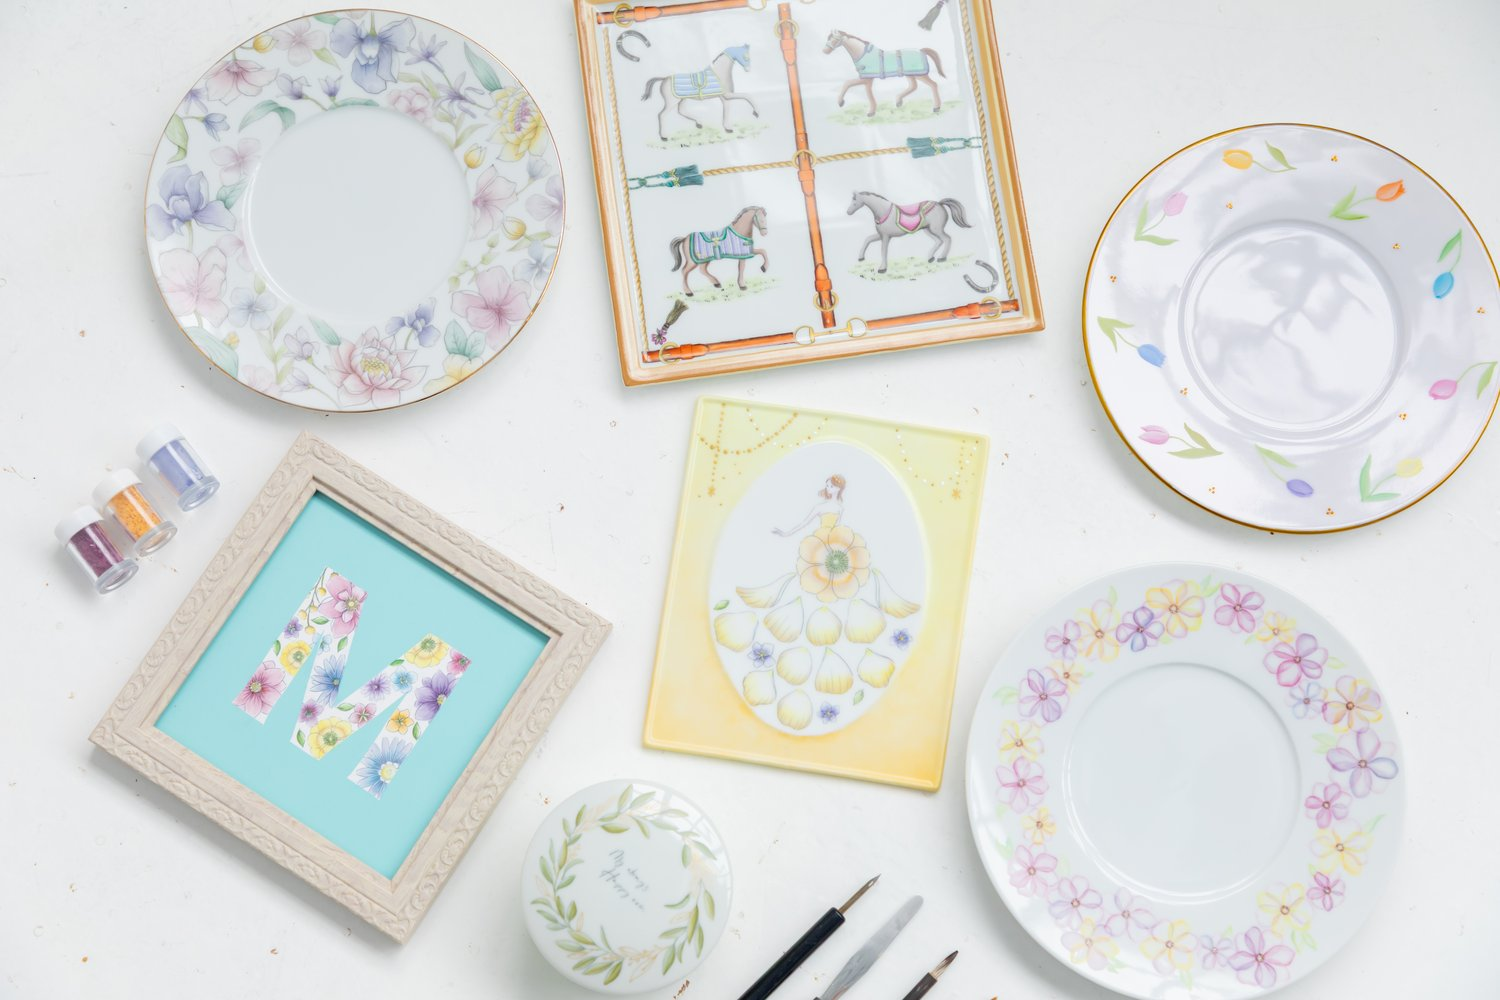
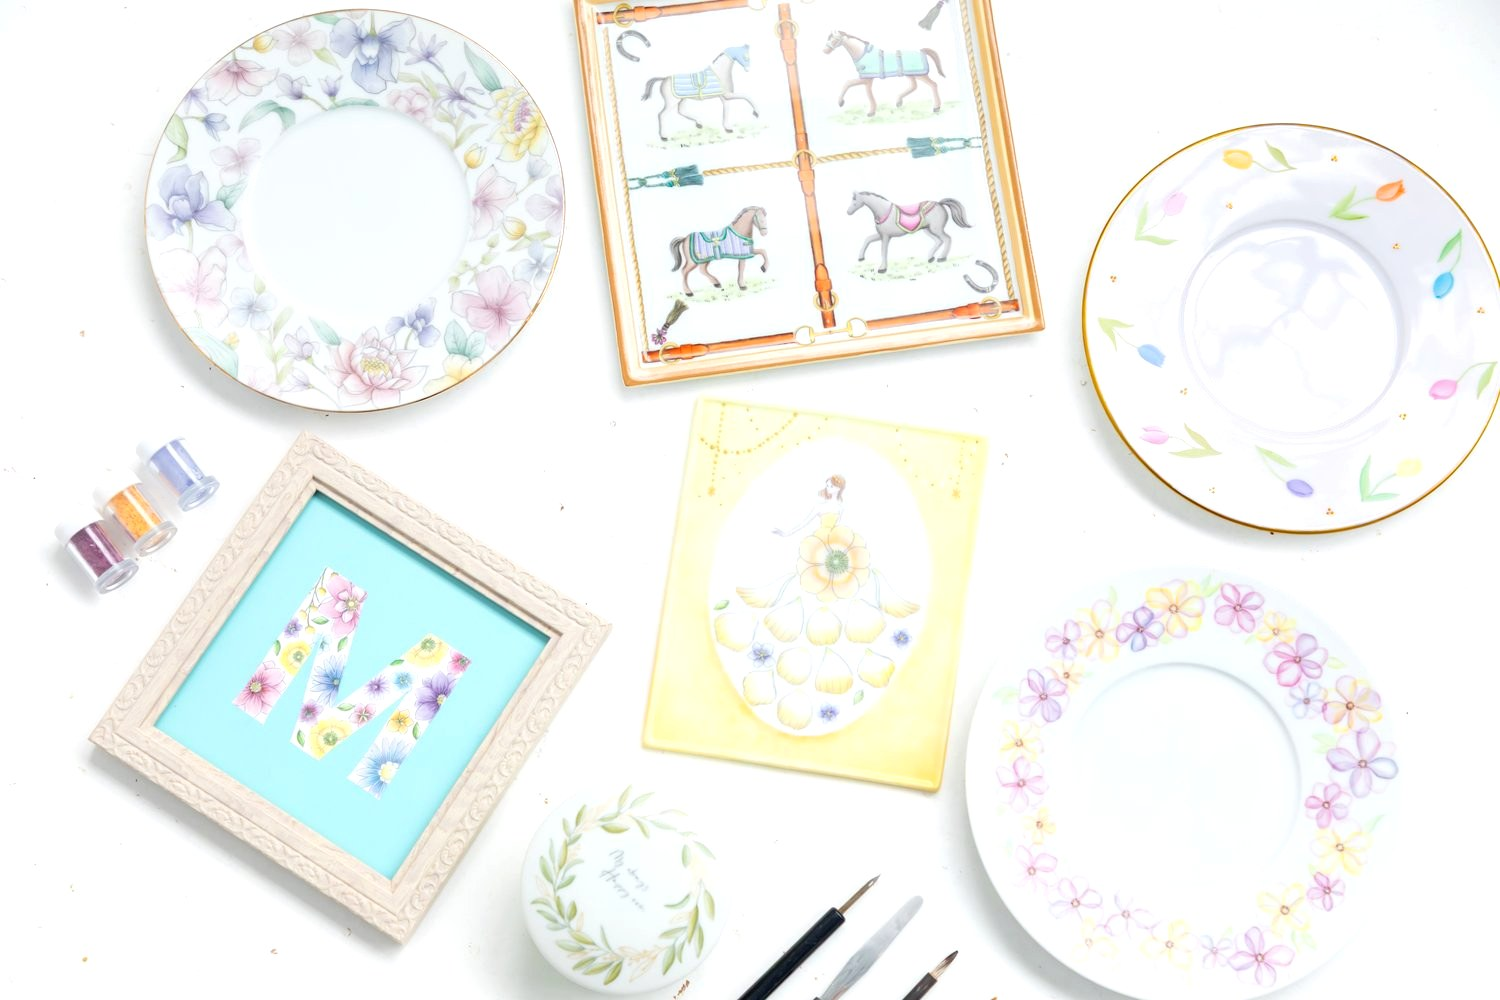
手書きボタニカル装飾を全デバイスで削除・フラワーガール画像を高精細化＋彩度補正・充実カリキュラム背景の作品写真を明るく・01〜04袋文字を細フチ＋大きく右下配置に・Zoom写真を大人数版(14名・名前マスク済・16:9全員表示)に差し替え・選ばれる理由のラウンドを見出しに近づける

diff --git a/index.html b/index.html
@@ -349,13 +349,8 @@
     ============================================= */
     section { position: relative; }  /* 絶対配置の基準 */
 
-    .bot {
-      position: absolute;
-      pointer-events: none;
-      user-select: none;
-      z-index: 0;
-      opacity: 0.18;   /* ← 濃さ調整（0.12〜0.25） */
-    }
+    /* 手書き風ボタニカル装飾は全デバイスで非表示（あや指示 2026/7/7） */
+    .bot { display: none !important; }
     /* コンテンツはボタニカルの上に */
     section > *:not(.bot) { position: relative; z-index: 1; }
 
@@ -1819,18 +1814,19 @@
     /* 番号：写真の下端に装飾的に重ねる（筆記体・透過） */
     .env-num {
       position:absolute;
-      left:14px;
-      top:-40px;
+      left:auto;
+      right:20px;
+      top:-34px;
       font-family:'Great Vibes', cursive;
-      font-size:4rem;
+      font-size:4.7rem;
       font-weight:400;
       line-height:1;
       color:#2266C4;
       transform:rotate(-7deg);
-      /* 袋文字（白いフチ） */
+      /* 袋文字（細めの白フチで上品に） */
       text-shadow:
-        2px 0 0 #fff, -2px 0 0 #fff, 0 2px 0 #fff, 0 -2px 0 #fff,
-        2px 2px 0 #fff, -2px -2px 0 #fff, 2px -2px 0 #fff, -2px 2px 0 #fff,
+        1px 0 0 #fff, -1px 0 0 #fff, 0 1px 0 #fff, 0 -1px 0 #fff,
+        1px 1px 0 #fff, -1px -1px 0 #fff, 1px -1px 0 #fff, -1px 1px 0 #fff,
         0 4px 14px rgba(58,66,104,0.25);
       pointer-events:none;
     }
@@ -2147,15 +2143,15 @@
       padding-top: 100px !important;
     }
     #flow { padding-top: 86px !important; }
-    /* 受講生の声・FAQ：ラウンドと見出しの間を詰める */
-    #voices, #faq { padding-top: 62px !important; }
+    /* 受講生の声・FAQ・選ばれる理由：ラウンドと見出しの間を詰める */
+    #voices, #faq, #why { padding-top: 62px !important; }
     @media (min-width: 760px) {
       #service, #why, #voices, #flow, #faq, #closing, #gallery {
         border-radius: 50% 50% 0 0 / 92px 92px 0 0;
         margin-top: -92px;
         padding-top: 136px !important;
       }
-      #voices, #faq { padding-top: 100px !important; }
+      #voices, #faq, #why { padding-top: 100px !important; }
     }
 
     /* ===== 充実したカリキュラム：写真そのまま＋大きなドーム型アーチで切り替え（前回LP風） ===== */
@@ -2615,7 +2611,7 @@
         </div>
         <div class="curri-2col">
           <div class="c-photo">
-            <img src="img/作品/curriculum-3.png" alt="課題3の作品：フラワーガール">
+            <img src="img/作品/curriculum-3b.jpg" alt="製作3の作品：フラワーガール">
           </div>
           <div class="c-text">
             <p class="curri-lead">数種類用意された女の子のデザインを自由にカスタムし、<b>お花のドレス</b>を着せます。背景に色を入れたり、装飾方法も習得します。</p>
@@ -2680,7 +2676,7 @@
   <p class="assurance-lead">オンラインでも、リアルでも。<br>あなたの学びと教室運営を、<br>しっかり支える環境が整っています。</p>
   <div class="env-list">
     <div class="env-item">
-      <img class="env-photo" loading="lazy" src="img/人物/env-zoom.jpg" alt="Zoomでのオンライン勉強会の様子" style="object-position:center center;">
+      <img class="env-photo" loading="lazy" src="img/人物/env-zoom2.jpg" alt="Zoomでのオンライン勉強会の様子（大人数の参加者）" style="aspect-ratio:16/9;">
       <div class="env-body">
         <span class="env-num">01</span>
         <h4><span>オリジナル<br>動画コンテンツ</span></h4>